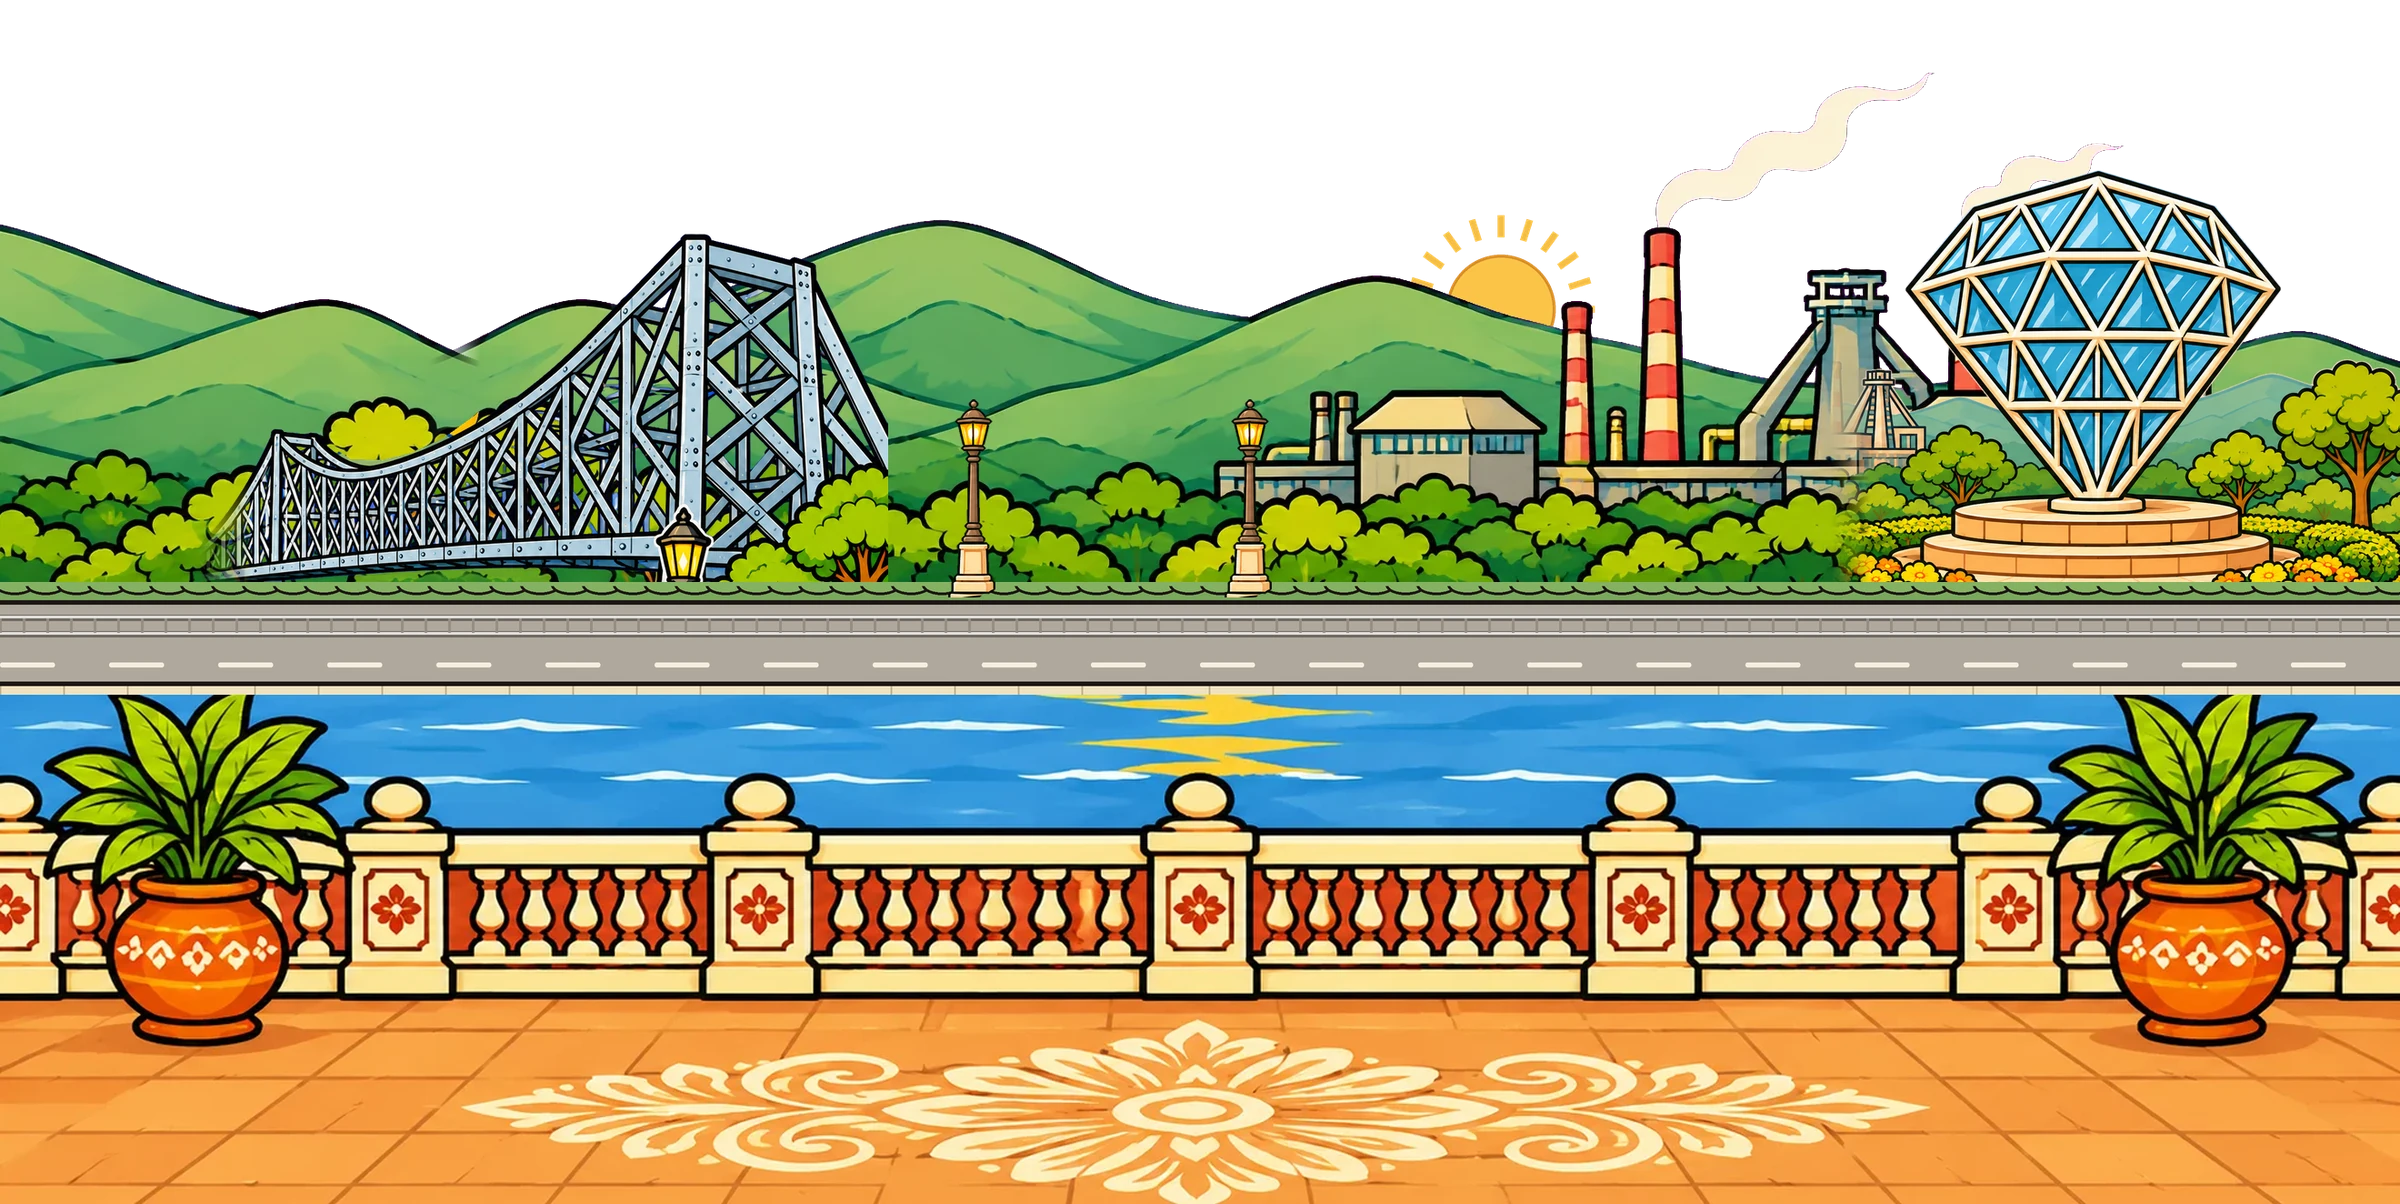
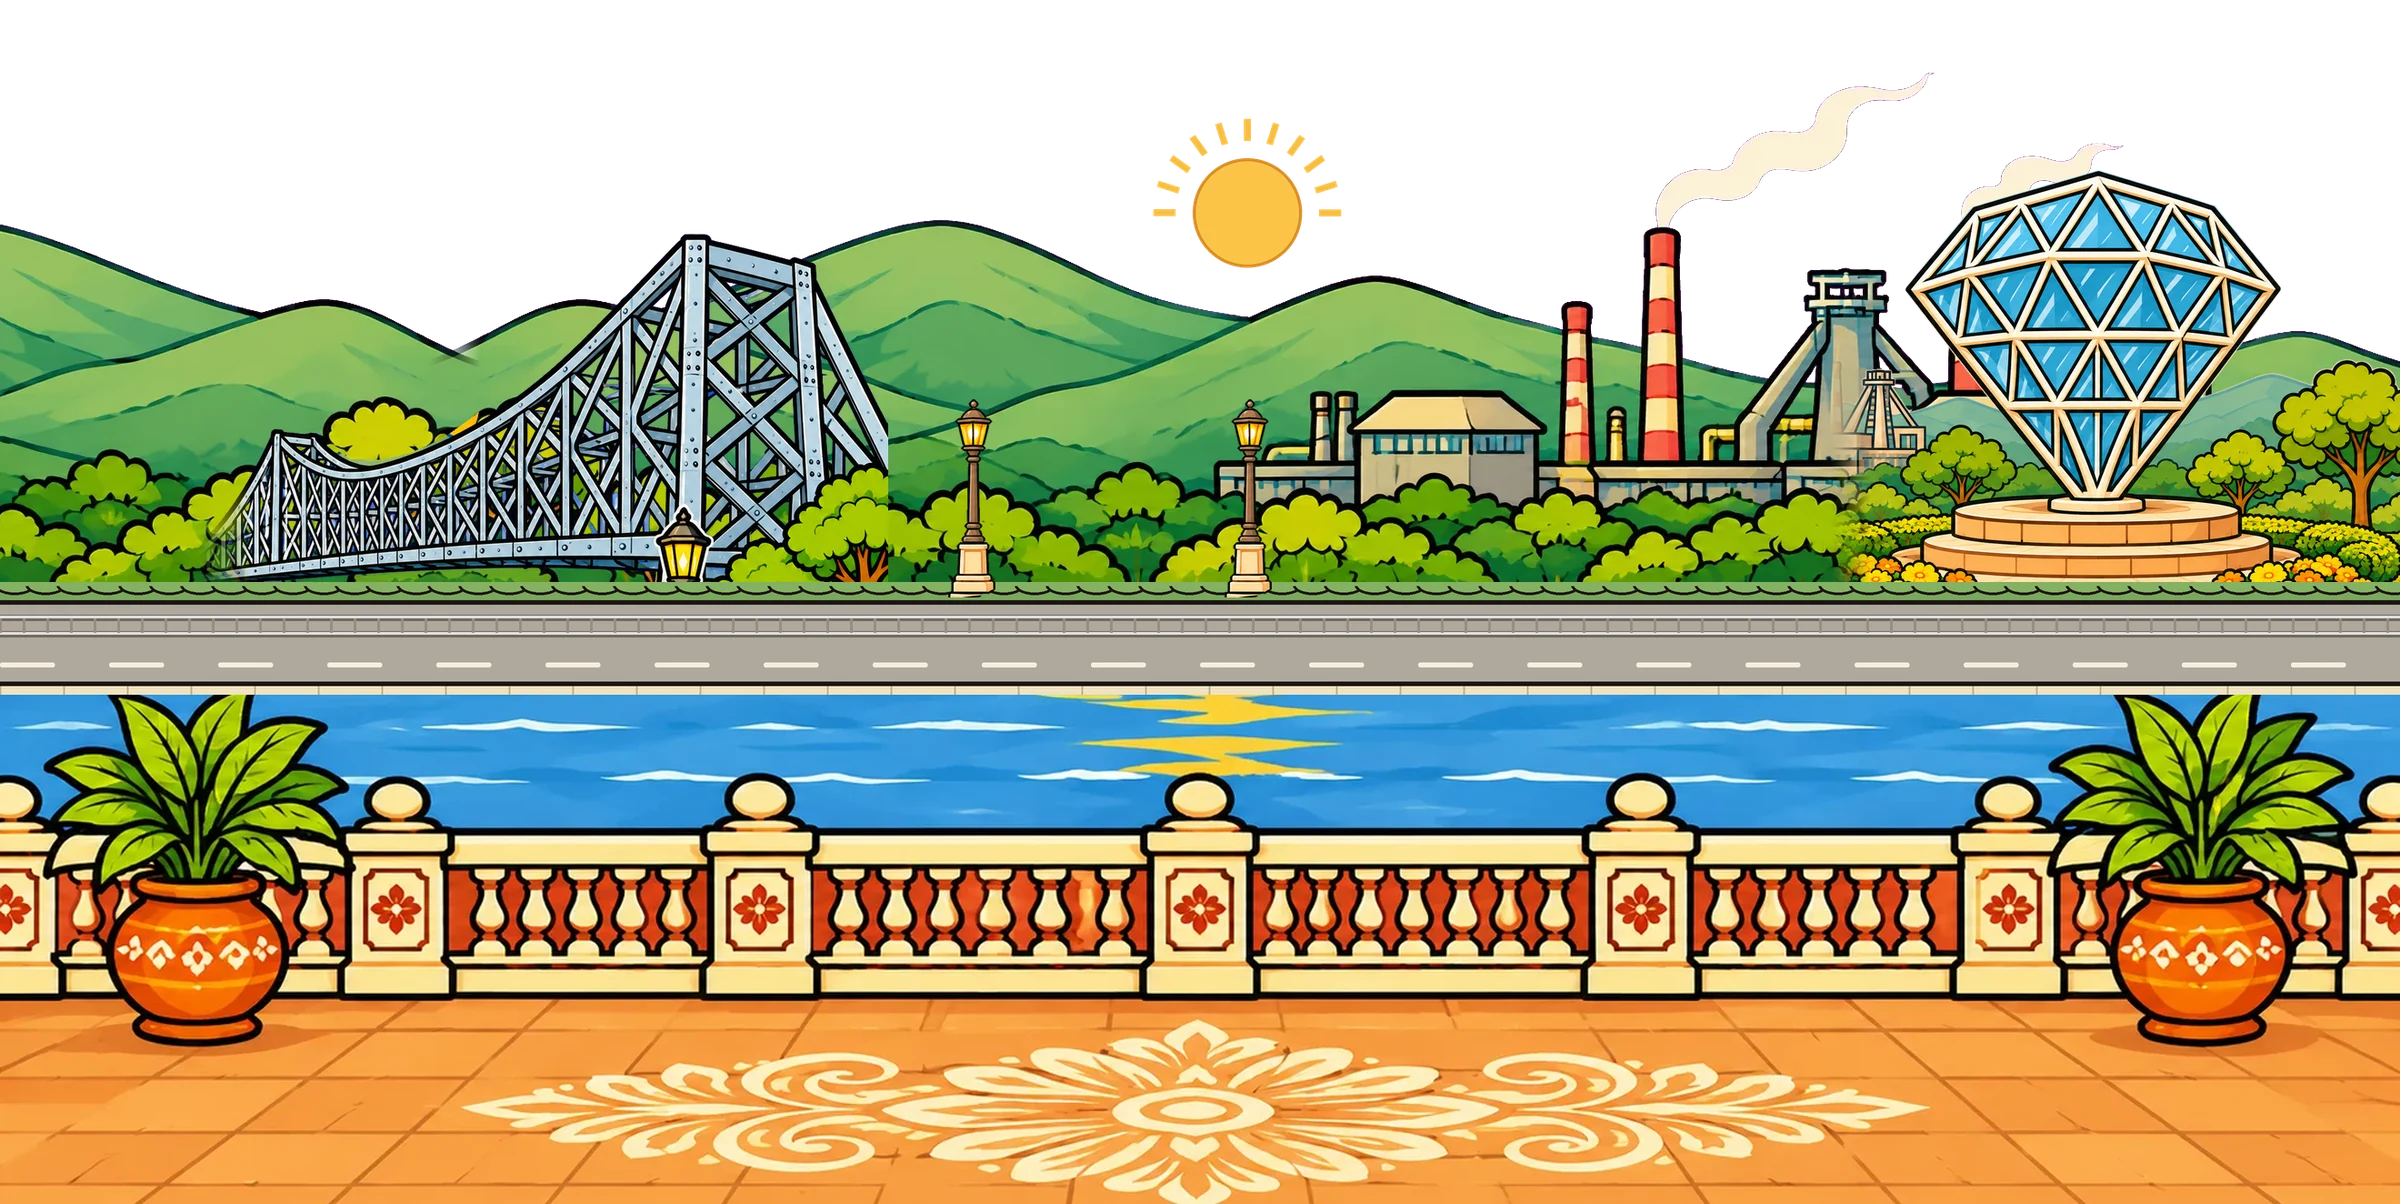
First page: city lifted on tall phones, sun in clear sky, white clouds; blinking eyes
- Tall phones had a band of empty sky between the names and the city. The city, the couple
  and the tram now come up to fill it, and a mirrored floor strip (hero-floor) fills in below.
- The sun rose behind the chimneys and the smoke. It now sits in open sky: above the hills
  on laptops, above the diamond on phones (scripts/compose-hero.py).
- The day clouds are white instead of gold (cloud-white).
- People blink. scripts/blink.py draws closed lids in each face's own skin colour, one
  overlay per person, and the Scene flashes them every few seconds, each on its own beat.
  This is done for the wedding couple, the sangeet groom, the reception couple and the
  tilak elder for now.
- The dev server no longer watches the art workshop folders, so zipping in them does not
  stop it.

Changed region(s): [[0.4688, 0.0922, 0.5625, 0.2458], [0.5938, 0.1844, 0.6562, 0.2766]]

diff --git a/src/scenes/scenes.js b/src/scenes/scenes.js
@@ -6,8 +6,8 @@ import { playInvitation, idleInvitation } from './invitation.js'
 
 const L = (id, w, h, o = {}) => ({ id, w, h, ...o })
 const clouds = (night) => [
-  L('cloud-l', 300, 190, { art: night ? 'cloud-night' : 'cloud-gold', ax: 'l', x: -150, ay: 't', y: 380, z: 2 }),
-  L('cloud-r', 360, 225, { art: night ? 'cloud-night' : 'cloud-gold', ax: 'r', x: -260, ay: 't', y: 640, z: 2, flip: true }),
+  L('cloud-l', 300, 190, { art: night ? 'cloud-night' : 'cloud-white', ax: 'l', x: -150, ay: 't', y: 380, z: 2 }),
+  L('cloud-r', 360, 225, { art: night ? 'cloud-night' : 'cloud-white', ax: 'r', x: -260, ay: 't', y: 640, z: 2, flip: true }),
 ]
 const cloudIdle = (q) => [idle.drift(q, 'cloud-l', 26, 9), idle.drift(q, 'cloud-r', 34, 11)].filter(Boolean)
 const foliage = (z = 8) => [L('foliage-l', 430, 430, { art: 'foliage-corner', ax: 'l', x: -70, ay: 't', y: -60, z, kind: 'plant' }), L('foliage-r', 430, 430, { art: 'foliage-corner', ax: 'r', x: -70, ay: 't', y: -60, z, flip: true, kind: 'plant' })]
@@ -39,6 +39,8 @@ export const SCENES = [
       // a wide picture for laptops and a tall one for phones; the tram and the taxi drive along its road
       L('scene-w', 2200, 1103, { art: 'hero-wide', z: 2, full: true, kind: 'ground', tall: 0.88 }),
       L('scene-t', 1300, 1765, { art: 'hero-tall', z: 2, full: true, kind: 'ground' }),
+      // tall phones lift the scene up to the words (styles.css, --lift); this floor fills in below it
+      L('floor-t', 1300, 401, { art: 'hero-floor', z: 2, full: true, kind: 'ground' }),
       L('tram-w', 1400, 588, { art: 'kolkata-tram', z: 3, road: { base: 2200, tall: 1.7552, at: 0.236, rw: 0.095 } }),
       L('taxi-w', 1400, 629, { art: 'kolkata-taxi', z: 4, road: { base: 2200, tall: 1.7552, at: 0.2177, rw: 0.066 } }),
       L('tram-t', 1400, 588, { art: 'kolkata-tram', z: 3, road: { base: 1300, at: 0.4317, rw: 0.2 } }),

diff --git a/src/styles.css b/src/styles.css
@@ -27,7 +27,8 @@ button { font: inherit; color: inherit; cursor: pointer; border: 0; background: 
 .world { --u: min(100cqw / 1080, 100cqh / 1800); position: absolute; inset: 0; --dx: 0px; }
 
 .layer { position: absolute; pointer-events: none; }
-.layer-in { width: 100%; height: 100%; }
+.layer-in { width: 100%; height: 100%; position: relative; }
+.layer img.blink { position: absolute; inset: 0; visibility: hidden; }
 .layer img { width: 100%; height: 100%; display: block; user-select: none; }
 .strip img { position: absolute; height: auto !important; }
 .strip.at-b img { bottom: 0; }
@@ -218,4 +219,9 @@ button { font: inherit; color: inherit; cursor: pointer; border: 0; background: 
 /* first page: the tall backdrop on phones, the wide one on laptops */
 @container (min-aspect-ratio: 1/1) { :is(#hero, #wedding) [data-l$='-t'] { display: none; } }
 @container (max-aspect-ratio: 1/1) { :is(#hero, #wedding) [data-l$='-w'] { display: none; } }
+/* tall phones have sky to spare between the names and the city: the city, the couple and the tram come up
+   (at most 400 units), and the floor picture fills in below them */
+@container (max-aspect-ratio: 53/100) { #hero .world { --lift: min(400 * var(--u), max(0px, (100cqh - 1920 * var(--u)) * 0.6)); } }
+#hero :is([data-l='scene-t'], [data-l='tram-t'], [data-l='taxi-t'], [data-l^='hero-']) { margin-bottom: var(--lift, 0px); }
+#hero [data-l='floor-t'] { bottom: var(--lift, 0px) !important; translate: 0 100%; }
 #hero [data-l^='scene-'] img { max-height: none !important; } /* the road must stay where the tram and taxi ride */

diff --git a/src/components/Layer.jsx b/src/components/Layer.jsx
@@ -35,12 +35,16 @@ export default function Layer({ id, art, w, h, x = 0, y = 0, ax = 'c', ay = 'b',
     const tile = { background: `url(${url}) 50% 0 / ${kind === 'wall' ? 'auto 100%' : `${u(w)} auto`} repeat-x` }
     return <div className={`layer k-${kind}`} data-l={id} style={{ ...style, height: kind === 'wall' ? '100cqh' : u(h) }}><div className="layer-in" style={tile} /></div>
   }
+  const look = { transform: flip ? 'scaleX(-1)' : undefined, objectFit: fit, maxHeight: full && kind === 'ground' ? u(h * 1.25) : undefined, objectPosition: `${side} ${ay === 'b' ? 'bottom' : 'top'}` }
+  // closed eyes for a blink (scripts/blink.py), one picture per person, laid exactly over the figure
+  const lids = kind === 'person' ? [artUrl(`${name}-blink`), artUrl(`${name}-blink2`)].filter(Boolean) : []
   return (
     <div className={`layer k-${kind}${full ? ' strip' : ''} at-${ay}`} data-l={id} style={style}>
       <div className="layer-in">
         {url
-          ? <img src={url} alt="" draggable="false" decoding="async" loading="lazy" style={{ transform: flip ? 'scaleX(-1)' : undefined, objectFit: fit, maxHeight: full && kind === 'ground' ? u(h * 1.25) : undefined, objectPosition: `${side} ${ay === 'b' ? 'bottom' : 'top'}` }} />
+          ? <img src={url} alt="" draggable="false" decoding="async" loading="lazy" style={look} />
           : <span className="todo"><i>{name}</i></span>}
+        {url && lids.map((l) => <img key={l} className="blink" src={l} alt="" draggable="false" decoding="async" loading="lazy" style={look} />)}
       </div>
     </div>
   )

diff --git a/src/components/Scene.jsx b/src/components/Scene.jsx
@@ -4,6 +4,15 @@ import Layer from './Layer.jsx'
 import { makeQ } from '../scenes/motion.js'
 import { drive } from './drive.js'
 
+// every few seconds each person shuts their eyes for a moment (the closed lids are drawn over the figure),
+// each on their own beat, now and then twice in a row
+const blinks = (root) => [...root.querySelectorAll('.blink')].map((el, i) => {
+  const t = gsap.timeline({ repeat: -1, repeatDelay: 2.4 + (i % 3) * 1.1, delay: 0.8 + i * 1.3 })
+  t.set(el, { visibility: 'visible' }).set(el, { visibility: 'hidden' }, 0.13)
+  if (i % 2) t.set(el, { visibility: 'visible' }, 0.4).set(el, { visibility: 'hidden' }, 0.52)
+  return t
+})
+
 const still = () => window.matchMedia('(prefers-reduced-motion: reduce)').matches
 
 // Holds one scene's timeline and idle loops. App decides which scene is on screen.
@@ -42,7 +51,7 @@ export default forwardRef(function Scene({ scene, lang, children }, ref) {
       t.progress(still() ? 1 : progress)
       if (live.current && progress < 1 && !scene.scroll) t.play()
       tl.current = t
-      idles.current = still() ? [] : scene.idle(makeQ(root.current)).filter(Boolean)
+      idles.current = still() ? [] : [...scene.idle(makeQ(root.current)).filter(Boolean), ...blinks(root.current)]
       if (!live.current) idles.current.forEach((i) => i.pause())
     }, root)
     // the card turns with the guest's own swipe (components/drive.js)

diff --git a/vite.config.js b/vite.config.js
@@ -1,7 +1,15 @@
 import { defineConfig } from 'vite'
 import react from '@vitejs/plugin-react'
+import { relative } from 'node:path'
+import { fileURLToPath } from 'node:url'
+
+const root = fileURLToPath(new URL('.', import.meta.url))
+// the art workshop folders at the top of the project are not part of the site (src/art is)
+const workshop = (p) => /^(art|reference stage|chatgpt generated[^\\/]*)([\\/]|$)/.test(relative(root, p))
 
 export default defineConfig({
   plugins: [react()],
   build: { target: 'es2020', assetsInlineLimit: 2048 },
+  // zipping or saving in the workshop folders must not stop the dev server
+  server: { watch: { ignored: [workshop] } },
 })

diff --git a/scripts/blink.py b/scripts/blink.py
@@ -1,0 +1,99 @@
+# Closed eyes for the blinking figures.
+#   python3 scripts/blink.py            -> src/art/<figure>-blink.webp (and -blink2 for a second person)
+# Each output is the figure's own size, transparent except for the eyelids, so it lays exactly over the
+# figure (Layer.jsx draws it on top; Scene.jsx flashes it for a blink every few seconds). A picture with
+# two people gets one file per person, so they do not blink together.
+# EYES holds a rough centre for every eye, in the figure's own pixels (src/art/<figure>.webp). The script
+# finds the white of the eye around it, covers it with a lid in the skin colour next to it, and draws the
+# closed lid's lash line. When a figure's picture is replaced, its eye centres must be measured again.
+import numpy as np
+from PIL import Image, ImageDraw
+from scipy import ndimage
+
+EYES = {  # figure: one list of eye centres per person
+    'wedding-couple': [[(355, 232), (404, 221)], [(944, 252), (1010, 260)]],
+    'sangeet-groom': [[(425, 200), (470, 185)]],
+    'reception-groom': [[(242, 115), (292, 105)]],
+    'reception-bride': [[(262, 112), (325, 125)]],
+    'tilak-elder': [[(490, 190)]],
+}
+SS = 4  # drawn this many times larger, then shrunk, for smooth edges
+LASH = (44, 26, 20)
+
+
+def find_eye(a, cx, cy, r=42):
+    x0, y0 = max(0, cx - r), max(0, cy - r)
+    win = a[y0:cy + r, x0:cx + r].astype(float)
+    rgb, al = win[..., :3], win[..., 3]
+    L = rgb @ [0.3, 0.59, 0.11]
+    mx, mn = rgb.max(-1), rgb.min(-1)
+    sat = (mx - mn) / np.maximum(mx, 1)
+    white = (L > 200) & (sat < 0.2) & (al > 200)
+    lab, n = ndimage.label(white)
+    if not n:
+        raise SystemExit(f'no eye white near {cx},{cy}')
+    idx = range(1, n + 1)
+    sizes = ndimage.sum(white, lab, idx)
+    cents = ndimage.center_of_mass(white, lab, idx)
+    # the white can be split in two by the iris: take the biggest blob near the centre and any blob level with it
+    near = [(i, s, c) for i, s, c in zip(idx, sizes, cents) if s > 12]
+    main = min(near, key=lambda t: np.hypot(t[2][1] - (cx - x0), t[2][0] - (cy - y0)) - t[1] * 0.05)
+    keep = [i for i, s, c in near if abs(c[0] - main[2][0]) < r * 0.35 and abs(c[1] - main[2][1]) < r * 1.1]
+    m = np.isin(lab, keep)
+    ys, xs = np.nonzero(m)
+    h = ys.max() - ys.min() + 1
+    # grow over the iris and the lid outlines (dark, touching the white), not far enough to reach the brow
+    dark = (L < 120) & (al > 200)
+    grown = m.copy()
+    for _ in range(round(h * 0.3) + 2):
+        grown |= ndimage.binary_dilation(grown) & dark
+    grown[:, :max(0, xs.min() - 3)] = False
+    grown[:, xs.max() + 4:] = False
+    gy, gx = np.nonzero(grown)
+    return x0 + gx.min(), y0 + gy.min(), x0 + gx.max(), y0 + gy.max()
+
+
+def skin_near(a, box, pad):
+    x0, y0, x1, y1 = box
+    X0, Y0, X1, Y1 = x0 - pad * 3, y0 - pad * 3, x1 + pad * 3, y1 + pad * 2
+    win = a[max(0, Y0):Y1, max(0, X0):X1].astype(float)
+    rgb = win[..., :3]
+    L = rgb @ [0.3, 0.59, 0.11]
+    mx, mn = rgb.max(-1), rgb.min(-1)
+    sat = (mx - mn) / np.maximum(mx, 1)
+    ok = (L > 120) & (L < 235) & (sat > 0.15) & (sat < 0.7) & (rgb[..., 0] > rgb[..., 1]) & (rgb[..., 1] > rgb[..., 2]) & (win[..., 3] > 240)
+    return tuple(int(v) for v in np.median(rgb[ok], 0))
+
+
+def build(name, centres, out_name):
+    fig = Image.open(f'src/art/{name}.webp').convert('RGBA')
+    a = np.asarray(fig)
+    W, H = fig.size
+    big = Image.new('RGBA', (W * SS, H * SS), (0, 0, 0, 0))
+    d = ImageDraw.Draw(big)
+    for cx, cy in centres:
+        x0, y0, x1, y1 = find_eye(a, cx, cy)
+        w, h = x1 - x0, y1 - y0
+        pad = max(2, round(h * 0.1))
+        skin = skin_near(a, (x0, y0, x1, y1), pad)
+        # the lid: skin over the whole open eye, its outline and iris included
+        d.ellipse([(x0 - pad) * SS, (y0 - pad) * SS, (x1 + pad) * SS, (y1 + pad) * SS], fill=skin + (255,))
+        # the closed lid: one ink line from corner to corner, bowing down, as thick as the drawing's lid line
+        ym = y0 + h * 0.42
+        pts = []
+        for k in range(41):
+            t = k / 40
+            x = x0 + w * t
+            y = ym + np.sin(np.pi * t) * h * 0.3
+            pts.append((x * SS, y * SS))
+        d.line(pts, fill=LASH + (255,), width=round(max(2.4, h * 0.12) * SS), joint='curve')
+        print(f'  {name}: eye {w}x{h} at {x0},{y0}  skin {skin}')
+    out = big.resize((W, H), Image.LANCZOS)
+    out.save(f'src/art/{out_name}.webp', quality=90, method=6)
+    return fig, out
+
+
+if __name__ == '__main__':
+    for n, people in EYES.items():
+        for k, c in enumerate(people):
+            build(n, c, f'{n}-blink' + (str(k + 1) if k else ''))

diff --git a/scripts/compose-hero.py b/scripts/compose-hero.py
@@ -193,7 +193,8 @@ def build(kind):
         yroad = land
         hs = 1.0
         hy = yroad - hills.height * hs + 40
-        base.alpha_composite(sun(60), (int(W * 0.58), int(yroad - hills.height * 0.7)))
+        # the sun rises in open sky between the bridge and the chimneys, clear of their smoke
+        base.alpha_composite(sun(60), (int(W * 0.52 - 120), int(hy + 34)))
         hl = Image.new('RGBA', (W, H), (0, 0, 0, 0))
         left = hills.crop((0, 0, W - hills.width + 60, hills.height)).transpose(Image.FLIP_LEFT_RIGHT)
         paste(hl, left, 0, hy, 1)
@@ -231,7 +232,6 @@ def build(kind):
         strip.alpha_composite(fade(hills.transpose(Image.FLIP_LEFT_RIGHT), 'l', 60), (hills.width - 60, 0))
         x0 = int(hills.width * 0.783 - W * 0.5 / hs)  # the works' middle chimney lands in the middle
         hc = strip.crop((x0, 0, x0 + int(W / hs), hills.height))
-        base.alpha_composite(sun(58), (int(W * 0.5 - 116), int(yroad - hills.height * hs * 0.8)))
         hl = Image.new('RGBA', (W, H), (0, 0, 0, 0))
         paste(hl, hc, 0, yroad - hills.height * hs + 40, hs)
         base.alpha_composite(hl)
@@ -244,6 +244,11 @@ def build(kind):
         crop = fade(crop, 'l', 70)
         ds = 0.6
         paste(base, crop, W - crop.width * ds + 110, yroad - crop.height * ds + 30, ds)
+        # the sun rises in open sky above the diamond, clear of the chimneys' smoke; behind the hills and the diamond
+        sky_sun = Image.new('RGBA', base.size, (0, 0, 0, 0))
+        sky_sun.alpha_composite(sun(58), (int(W * 0.80 - 116), int(yroad - crop.height * ds + 30 - 190)))
+        sky_sun.alpha_composite(base)
+        base = sky_sun
         lamps = [(0.875, 0.56)]  # the bridge brings its own lamp on the left
     rd, lines = road(W, R)
     base.alpha_composite(rd, (0, yroad))
